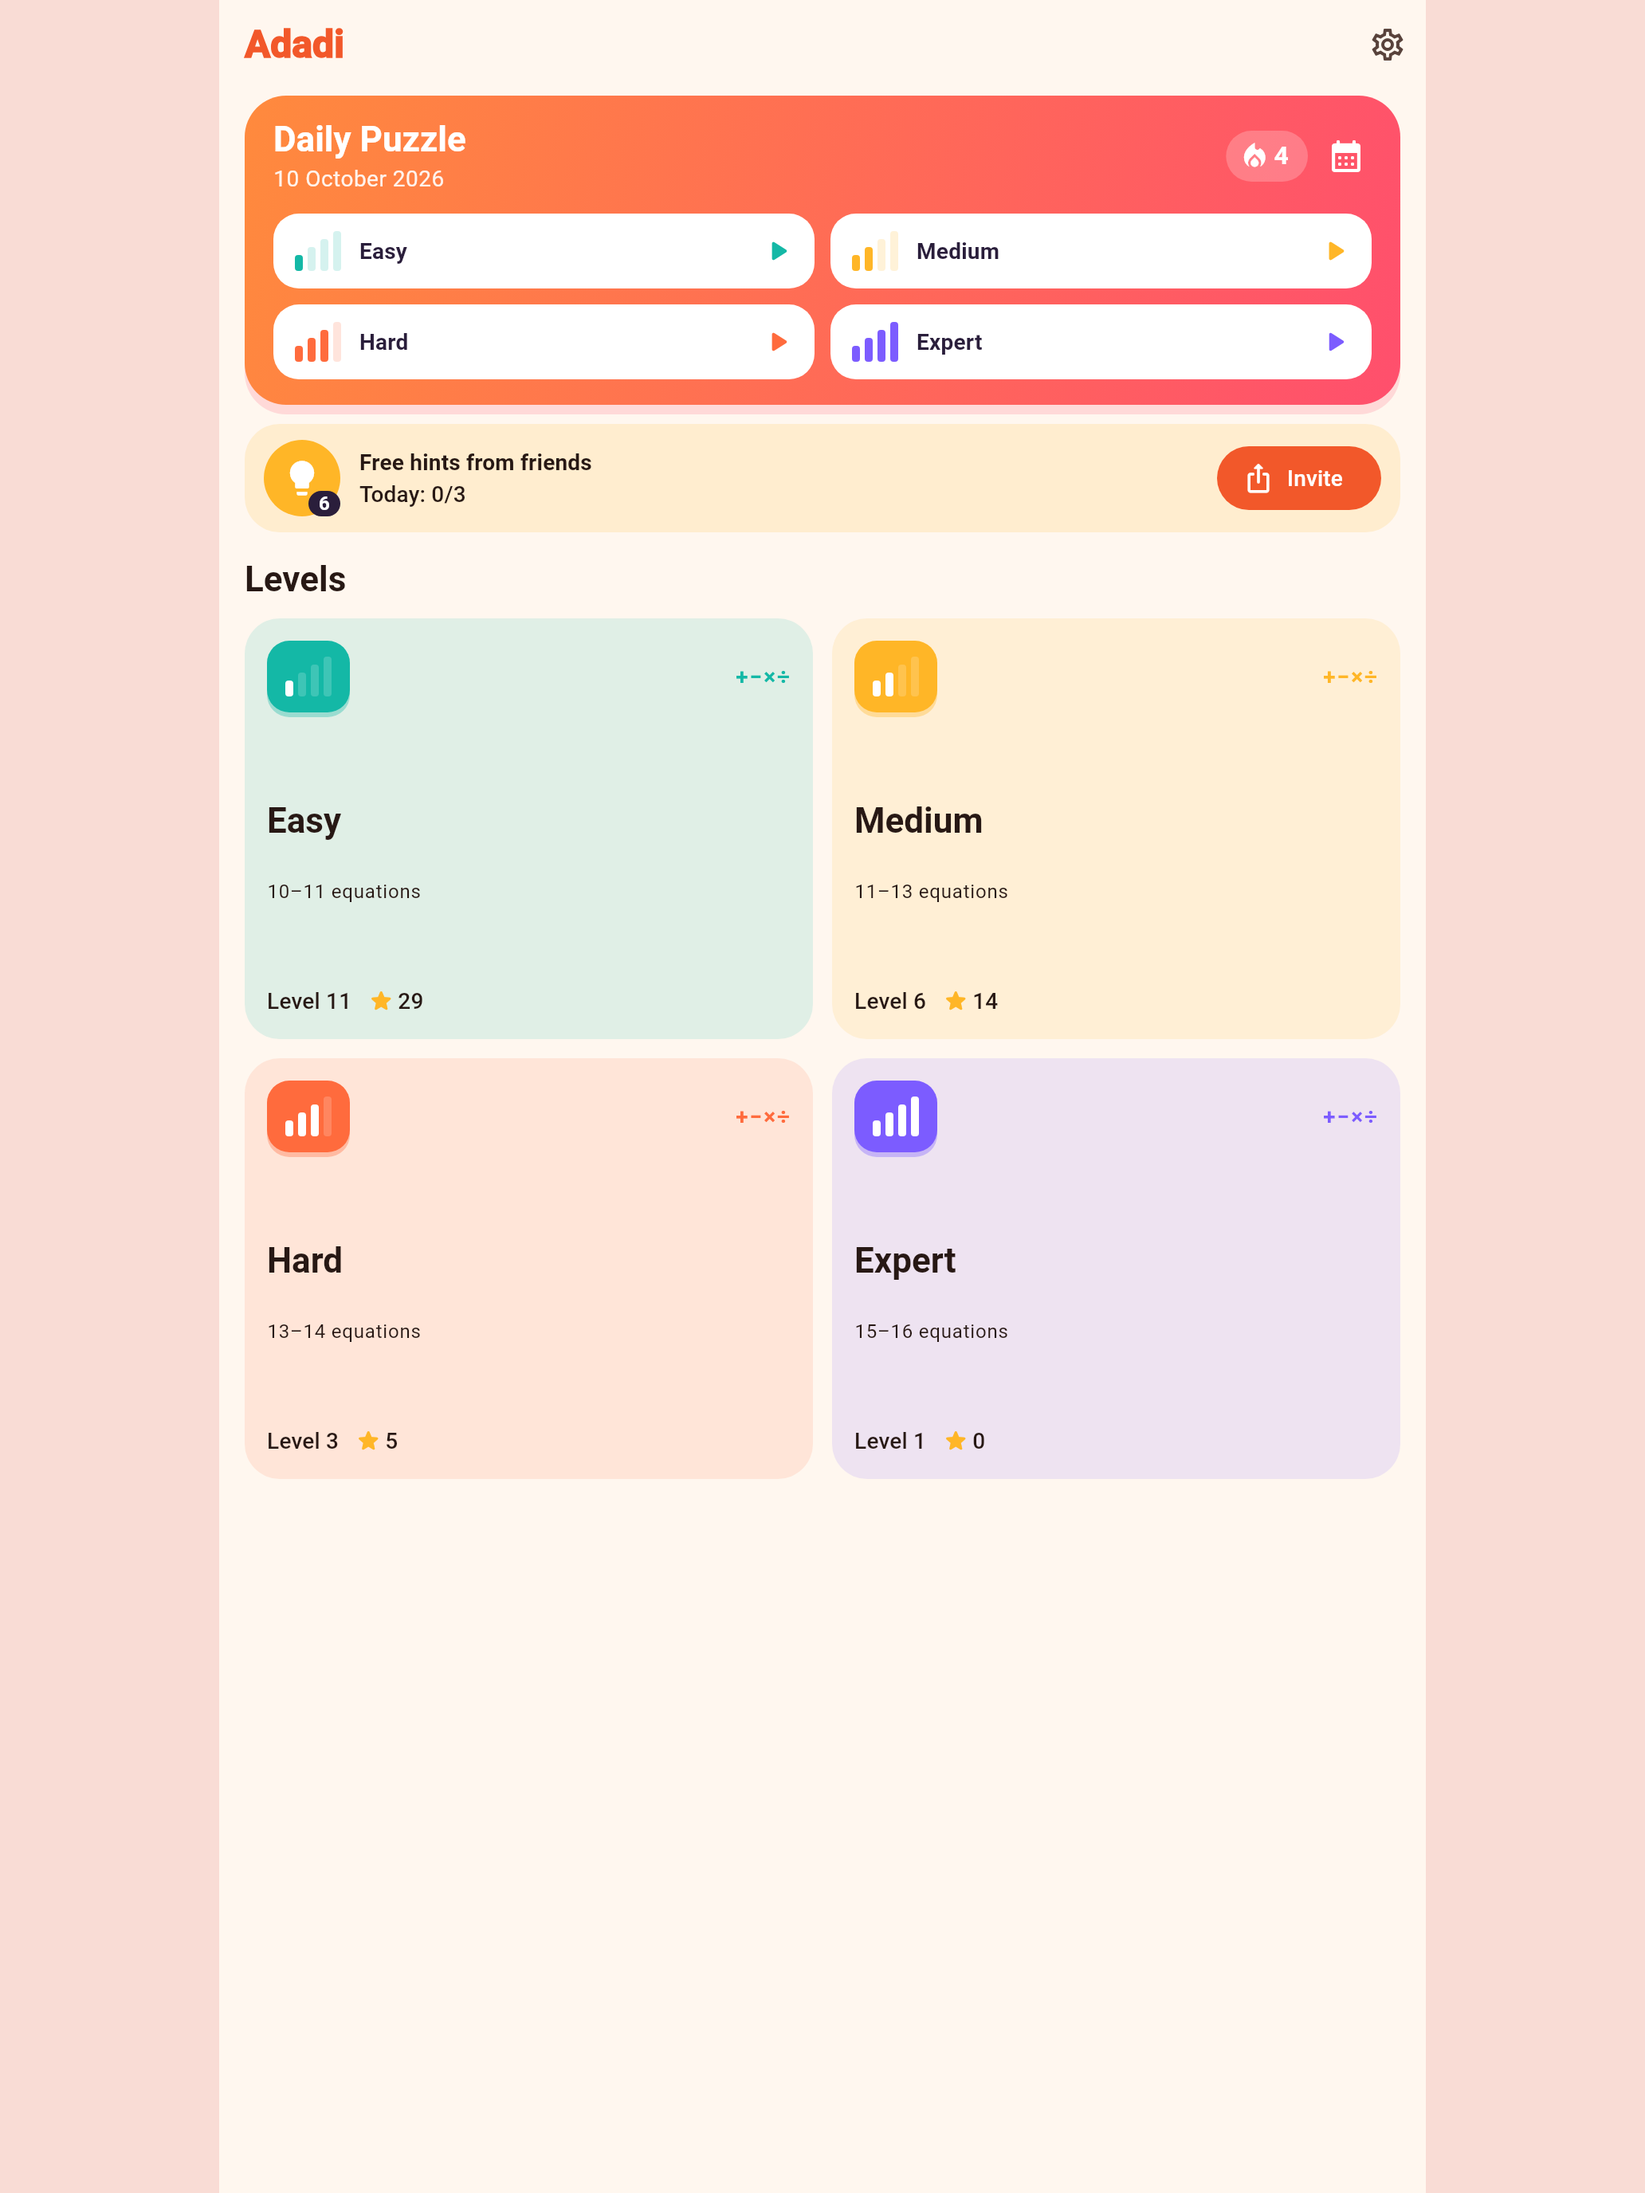
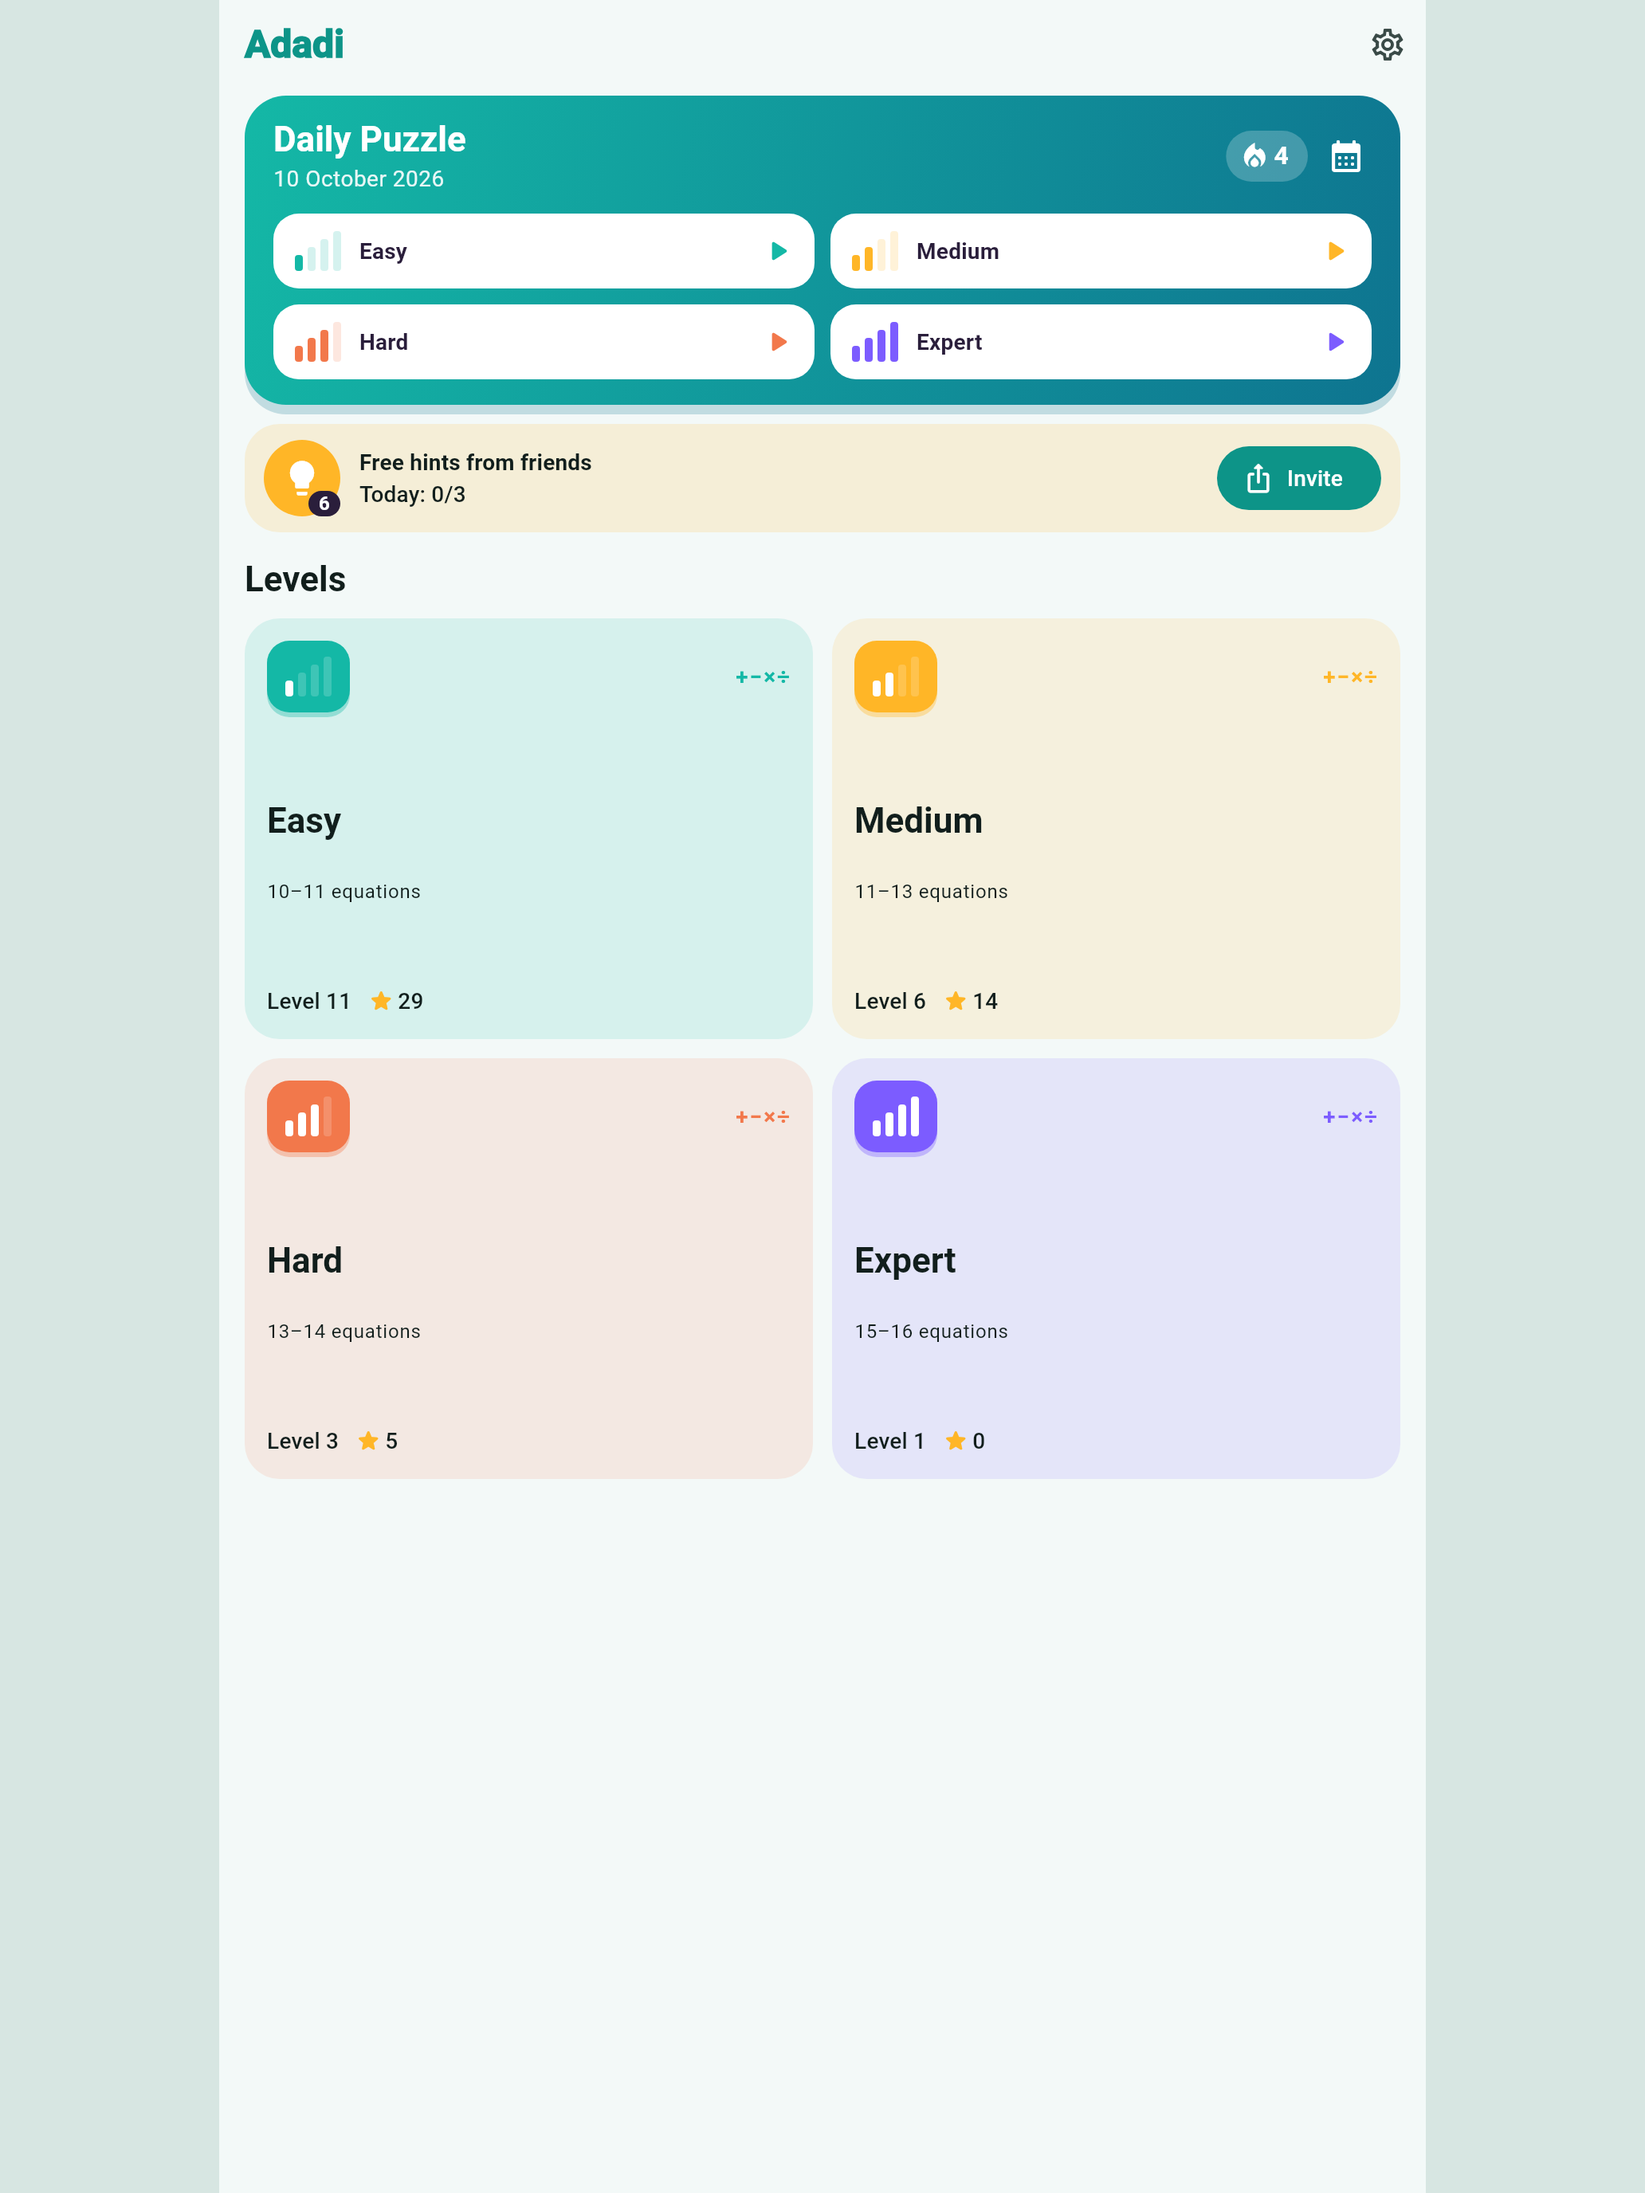
Preview: turquoise palette (awaiting Amir's approval)
Claude-Session: https://claude.ai/code/session_01GPiViFfV7bgNtYDriH2SSv

diff --git a/app/lib/app/palette.dart b/app/lib/app/palette.dart
@@ -4,16 +4,20 @@ import 'package:numcross_engine/numcross_engine.dart';
 /// Adadi's warm colors (Amir, 2026-10-11: "warmer, more inviting, not busy").
 /// The Material color scheme is built from [tangerine]; the rest are accents.
 class Palette {
-  static const tangerine = Color(0xFFFF6B3D);
+  /// The brand: turquoise (Amir, 2026-10-11: "the Easy box's teal, it
+  /// looks more professional").
+  static const brand = Color(0xFF0D9488);
+  static const brandDark = Color(0xFF0E7490);
+  static const tangerine = Color(0xFFF2784B);
   static const coral = Color(0xFFFF4F6D);
   static const sun = Color(0xFFFFB627);
   static const teal = Color(0xFF14B8A6);
   static const violet = Color(0xFF7C5CFF);
   static const ink = Color(0xFF2A1E3B);
 
-  /// Light background: warm cream; dark: deep plum.
-  static const cream = Color(0xFFFFF7EF);
-  static const plum = Color(0xFF1B1426);
+  /// Light background: a hint of mint; dark: deep teal-black.
+  static const cream = Color(0xFFF3F9F8);
+  static const plum = Color(0xFF0F1A1C);
 
   static const star = Color(0xFFFFB627);
   static const flame = Color(0xFFFF6B3D);
@@ -28,7 +32,7 @@ class Palette {
 
   /// Inside a puzzle: calm navy and blue (Amir, 2026-10-11: red/orange in
   /// the game felt stressful). The menu keeps the warm colors.
-  static const navy = Color(0xFF2F5D8A);
+  static const navy = Color(0xFF0F766E);
 
   static ThemeData calm(ThemeData base) {
     final dark = base.brightness == Brightness.dark;
@@ -37,9 +41,11 @@ class Palette {
           seedColor: navy,
           brightness: base.brightness,
         ).copyWith(
-          surface: dark ? const Color(0xFF131A24) : const Color(0xFFF4F7FB),
-          surfaceContainerLowest: dark ? const Color(0xFF0E141C) : Colors.white,
-          surfaceContainerLow: dark ? const Color(0xFF1B2430) : Colors.white,
+          primary: dark ? const Color(0xFF2DD4BF) : const Color(0xFF0F8F86),
+          onPrimary: dark ? const Color(0xFF042F2E) : Colors.white,
+          surface: dark ? plum : cream,
+          surfaceContainerLowest: dark ? const Color(0xFF0B1415) : Colors.white,
+          surfaceContainerLow: dark ? const Color(0xFF16252A) : Colors.white,
         );
     return base.copyWith(
       colorScheme: scheme,
@@ -55,6 +61,6 @@ class Palette {
   static const hero = LinearGradient(
     begin: Alignment.topLeft,
     end: Alignment.bottomRight,
-    colors: [Color(0xFFFF8A3D), Color(0xFFFF4F6D)],
+    colors: [Color(0xFF14B8A6), Color(0xFF0E7490)],
   );
 }

diff --git a/app/lib/app_root.dart b/app/lib/app_root.dart
@@ -178,13 +178,13 @@ ThemeData _theme(Brightness brightness, AppLanguage language) {
   final dark = brightness == Brightness.dark;
   final scheme =
       ColorScheme.fromSeed(
-        seedColor: Palette.tangerine,
+        seedColor: Palette.brand,
         brightness: brightness,
         dynamicSchemeVariant: DynamicSchemeVariant.vibrant,
       ).copyWith(
         // The seed itself, not the scheme's darker tone: bright, warm buttons.
-        primary: dark ? const Color(0xFFFF8A5C) : const Color(0xFFF2582A),
-        onPrimary: dark ? Palette.ink : Colors.white,
+        primary: dark ? const Color(0xFF2DD4BF) : Palette.brand,
+        onPrimary: dark ? const Color(0xFF042F2E) : Colors.white,
         surface: dark ? Palette.plum : Palette.cream,
         surfaceContainerLowest: dark ? const Color(0xFF15101E) : Colors.white,
         surfaceContainerLow: dark ? const Color(0xFF241B31) : Colors.white,

diff --git a/app/lib/screens/menu_screen.dart b/app/lib/screens/menu_screen.dart
@@ -179,7 +179,7 @@ class _DailyCard extends StatelessWidget {
         borderRadius: BorderRadius.circular(26),
         boxShadow: [
           BoxShadow(
-            color: Palette.coral.withValues(alpha: 0.18),
+            color: Palette.brandDark.withValues(alpha: 0.22),
             blurRadius: 16,
             offset: const Offset(0, 6),
           ),

diff --git a/app/lib/share/share_result.dart b/app/lib/share/share_result.dart
@@ -196,7 +196,7 @@ Future<Uint8List?> renderResultCard(
       ..shader = ui.Gradient.linear(
         Offset.zero,
         Offset(w, h),
-        [const Color(0xFFFF8A3D), Palette.coral, const Color(0xFF8A3FD1)],
+        [const Color(0xFF14B8A6), Palette.brandDark, const Color(0xFF134E5E)],
         [0, 0.55, 1],
       ),
   );
